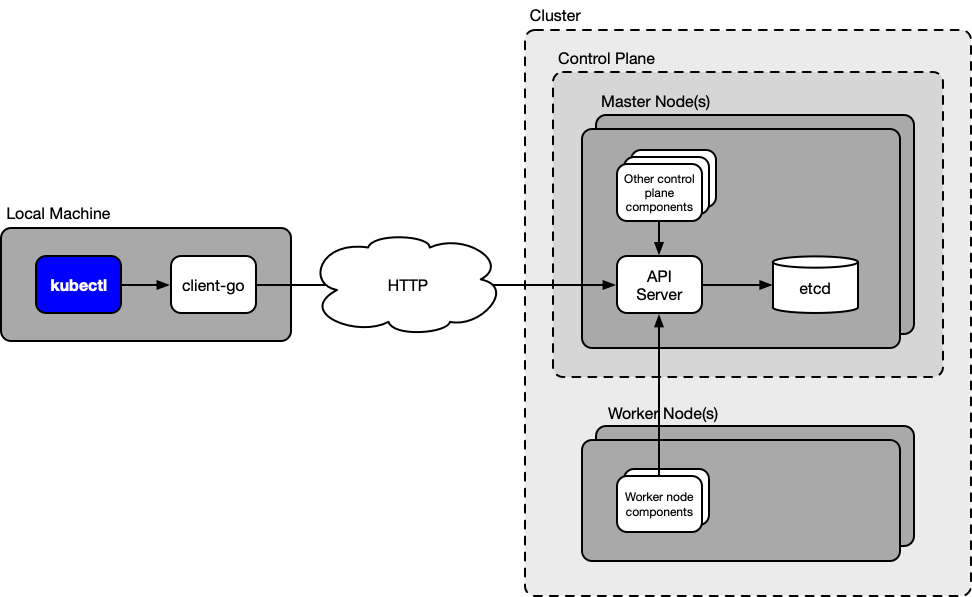
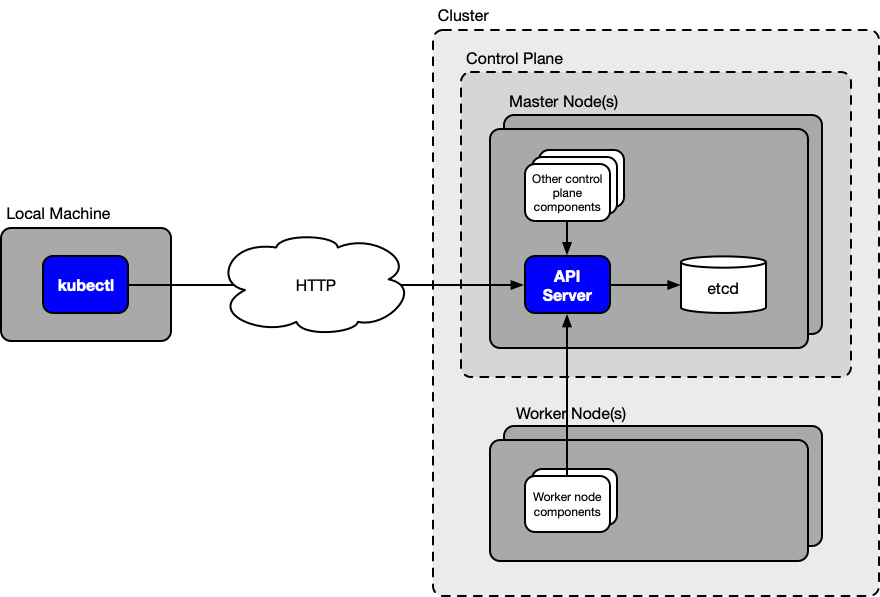
Revise "What is kubectl" section

diff --git a/_blog/kubernetes-cli-tricks/index.md b/_blog/kubernetes-cli-tricks/index.md
@@ -16,32 +16,37 @@ open_graph:
   image: /blog/kubernetes-cli-tricks/magic.jpg
 ---
 
-You probably know what you can do with `kubectl`, namely controlling and managing a Kubernetes cluster. But do you know what `kubectl` actually *is* from a technical point of view? The following diagram gives an overview:
+## Understanding what kubectl is
+
+You probably know what you can do with kubectl, namely controlling and managing a Kubernetes cluster. But do you know what kubectl actually is from a technical point of view? The following diagram gives an overview:
 
 ![](what-is-kubectl.png)
 
-To understand what `kubectl` is, you also need to have a rough idea how a Kubernetes cluster works. Kubernetes itself consists of various independent **components**. Some of them are control plane components and they usually run on one or more dedicated master nodes of the cluster. Other components run on each worker node of a cluster.
+To understand what kubectl is, you also need to have a rough idea how Kubernetes works.
 
-Each component has a very specific job. For example, the **[etcd](https://coreos.com/etcd/) storage** component stores all the resource specifications that have been defined for a cluster (e.g. deployments, services, etc.). The **scheduler** component assigns pending pods to worker nodes for execution. The **kubelet** component, which runs on each worker node, runs the container(s) of a pod that has been assigned to its node by the scheduler.
+Kubernetes itself consists of a set of independent **components** that run on different nodes of a cluster. A subset of these components are **control plane components** and they usually run on one or more dedicated nodes that only run control plane components and don't execute any workloads. These nodes are called master nodes. The remaining components are **worker nodes components**, and they run on those nodes of the cluster that execute the application workloads. These nodes are called worker nodes.
 
-However, there is one very central component: the **API server**. The API server is the switching point for all interactions between components within the cluster, as well as the main entry point for interactions from outside the cluster. The individual components in a cluster don't talk to each other directly, but they communicate via the API server. Similarly, an external user (such as you) interacts with a cluster through the API server.
+Each component has a very specific job. For example, the **[etcd](https://coreos.com/etcd/)** component (a control plane component) stores all the resource specifications that have been defined for the cluster, such as pods and services. The **scheduler** component (a control plane component) assigns pending pods to worker nodes for execution. The **kubelet** component (a worker node component) is responsible for running the container(s) of a pod that has been assigned to its node by the scheduler.
 
-The API server defines an HTTP REST API through which all these interactions happen. This is commonly known as the **Kubernetes API** and it is described [here](https://kubernetes.io/docs/reference/using-api/api-overview/) in the docs. Since it is a REST API, all Kubernetes operations are implemented as CRUD operations (create, read, update, delete) on Kubernetes **resource objects** (which are stored in the etcd component). The full specifications of these resource objects for the currently latest version of Kubernetes can be found [here](https://kubernetes.io/docs/reference/kubernetes-api/).
+However, there is one very important component that I didn't mention yet: the **API server**. The API server is the switching point for all interactions between components within the cluster, as well as the main entry point for interactions from outside the cluster. The individual components in a cluster don't talk to each other directly, but they only talk to the API server (in fact components don't even know about each others' existence). Similarly, an external user (such as you) interacts with a Kubernetes cluster by talking to the API server.
 
-This means that, as a cluster user, you control a Kubernetes cluster by making HTTP calls to the REST API of your cluster's API server. You could do this with a tool like `curl`. Or, since this is tedious and error-prone, you could use a tool that provides you a nice interface and carries out these HTTP API calls for you behind the scenes. And that's exactly what `kubectl` is.
+The API server defines an **HTTP REST API** through which all these interactions happen. This is commonly known as the [Kubernetes API](https://kubernetes.io/docs/reference/using-api/api-overview/). All Kubernetes operations are implemented as **CRUD** operations (create, read, update, delete) on Kubernetes **resources**. Everything, from a pod to a service to a deployment or namespace is a Kubernetes resource, and all Kubernetes operations are CRUD operations on these resources, carried out through the HTTP REST API of the API server. You can find the full list of these resources with all their fields for the latest version of Kubernetes (currently v1.13) [here](https://kubernetes.io/docs/reference/kubernetes-api/).
 
-`kubectl` is essentially a command-line tool that carries out HTTP calls to the API server on your behalf. It allows you to do everything that you could also do by directly calling the API (e.g. with `curl`), but in a more user-friendly way (plus it allows you to do some additional management tasks).
+And now you can see what **kubectl** is: kubectl is a command-line tool that carries out HTTP requests to the API server. If you run `kubectl get pods`, then kubectl issues an HTTP request that corresponds to a *read* operation on the *pod* resources to the API server
 
-Technically, `kubectl` is a Go program, and it uses a library called [client-go](https://github.com/kubernetes/client-go) to make the calls to the Kubernetes API. The client-go library is the official Kubernetes API client library for Go. There exist Kubernetes API client libraries for various other programming languages (see [here](https://kubernetes.io/docs/reference/using-api/client-libraries/)), and you are free to use these libraries in your own programs that need to access a Kubernetes cluster.
+So, if kubectl just makes HTTP requests to the API server, couldn't you also access this API directly? Sure. Nothing stops you from making raw HTTP requests to the API server with a tool like `curl`. If you know the relevant API endpoints and request formats, then you could fully control your cluster that way without ever using kubectl. However, this would be a lot of work and pretty error-prone. The whole point of kubectl is to make it easier for you to interact with the Kubernetes API server.
 
-The important point to remember from this section is that a Kubernetes cluster is controlled through an HTTP REST API provided by an API server, and `kubectl` is one of the means through which you can access this API.
+However, what's more common than accessing the API server directly is to use one of the Kubernetes [client libraries](https://kubernetes.io/docs/reference/using-api/client-libraries/) that exist for different programming languages. These are API client libraries that allow you to carry out requests to the API server programmatically. This allows you to write programs that communicate with the Kubernetes API server, just like kubectl.
 
-The remainder of this article presents a collection of "tricks" that help you make your usage of `kubectl` as efficient as possible.
+In fact, kubectl is nothing else than a program that uses a Kubernetes client library to communicate with the Kubernetes API server. In particular, kubectl is a Go program that uses the [client-go](https://github.com/kubernetes/client-go) library.
 
+The take-away message here is that, regarding cluster control, the crucial point is the HTTP REST API provided by the API server. Everything happens through this API. Kubectl is one of the means to access this API, but there are others, for example issuing raw HTTP requests (e.g. with `curl`) or using a Kubernetes client library. In the end, all these means are equivalent, that is, they all allow you to do the same things.
+
+Now that you have a good idea of what kubectl is, let's look at a series of tips and tricks to make your usage of kubectl more efficient.
 
 ## Shell Completion
 
-One of the most obvious, but often overlooked, tricks to make your `kubectl` usage more efficient is shell completion. This is a feature that `kubectl` provides for the **Bash** and **zsh** shells (see [here](https://kubernetes.io/docs/tasks/tools/install-kubectl/#enabling-shell-autocompletion)). It allows you to auto-complete `kubectl` sub-commands, options, and arguments, including hard-to-type things like pod or node names. This can save you really a lot of typing or copy-pasting!
+One of the most obvious, but often overlooked, tricks to make your kubectl usage more efficient is shell completion. This is a feature that kubectl provides for the **Bash** and **zsh** shells (see [here](https://kubernetes.io/docs/tasks/tools/install-kubectl/#enabling-shell-autocompletion)). It allows you to auto-complete kubectl sub-commands, options, and arguments, including hard-to-type things like pod or node names. This can save you really a lot of typing or copy-pasting!
 
 Here is a small demonstration of shell completion in action:
 
@@ -53,12 +58,12 @@ The setup procedure for shell completion depends on whether you use Bash or zsh 
 
 ### General Notes
 
-- The completion functionality for `kubectl` is provided by a **completion script**. This is a shell script that instructs the shell how completion should work for this command. `kubectl` outputs this script for the Bash and zsh shells with the command `kubectl completion bash` and `kubectl completion zsh`, respectively. You have to source this script for enabling completion.
-- For Bash, the `kubectl` completion script depends on a third-party project called [**bash-completion**](https://github.com/scop/bash-completion). You need to install this project on your system to make `kubectl` completion work for Bash.
+- The completion functionality for kubectl is provided by a **completion script**. This is a shell script that instructs the shell how completion should work for this command. kubectl outputs this script for the Bash and zsh shells with the command `kubectl completion bash` and `kubectl completion zsh`, respectively. You have to source this script for enabling completion.
+- For Bash, the kubectl completion script depends on a third-party project called [**bash-completion**](https://github.com/scop/bash-completion). You need to install this project on your system to make kubectl completion work for Bash.
 
 ### Bash on Linux
 
-As mentioned, for Bash you first have to install a project called [bash-completion](https://github.com/scop/bash-completion). This project provides Bash functions that are used by the `kubectl` completion script (that is, the output of `kubectl completion bash`).
+As mentioned, for Bash you first have to install a project called [bash-completion](https://github.com/scop/bash-completion). This project provides Bash functions that are used by the kubectl completion script (that is, the output of `kubectl completion bash`).
 
 You can install bash-completion as follows:
 
@@ -72,19 +77,19 @@ This creates the file `/etc/bash_completion`, which you have to source in your `
 source /etc/bash_completion
 ~~~
 
-Now, you just need to make sure the `kubectl` completion script is sourced in every shell session. You can do this by adding the following command to your `~/.bashrc` file (after the above command):
+Now, you just need to make sure the kubectl completion script is sourced in every shell session. You can do this by adding the following command to your `~/.bashrc` file (after the above command):
 
 ~~~bash
 source <(kubectl completion bash)
 ~~~
 
-And that's it! After starting a new shell (or sourcing `~/.bashrc`), `kubectl` completion should work.
+And that's it! After starting a new shell (or sourcing `~/.bashrc`), kubectl completion should work.
 
 ### Bash on macOS
 
 On macOS, the story is (unfortunately) a bit more complicated. The reason for this is that Apple includes a completely outdated version of Bash in macOS. In particular, this is version 3.2 which dates from 2007 (you can test it on your Mac by running `bash --version`). Apple does this for licensing reasons: Bash 3.2 is the last version that uses the GPLv2 license, whereas later versions use GPLv3, and Apple is unwilling to accept GPLv3.
 
-The problem is that the `kubectl` completion script (that you generate with `kubectl completion bash`) does not work properly with Bash 3.2. It requires at least Bash 4.1.
+The problem is that the kubectl completion script (that you generate with `kubectl completion bash`) does not work properly with Bash 3.2. It requires at least Bash 4.1.
 
 The only solution to this problem is to install a newer version of Bash on your Mac (the currently latest version is 5.0). This is actually not difficult and I wrote an entire article about it [here](https://itnext.io/upgrading-bash-on-macos-7138bd1066ba). I recommend you to follow the steps in this article before proceeding.
 
@@ -106,17 +111,17 @@ The above command will prompt you in the "Caveats" section to add the following 
 
 You have to do this in order to enable the bash-completion functionality.
 
-After that, you just need to source the `kubectl` completion script, which you can do by adding the following command to your `~/.bashrc` file (after the above command):
+After that, you just need to source the kubectl completion script, which you can do by adding the following command to your `~/.bashrc` file (after the above command):
 
 ~~~bash
 source <(kubectl completion bash)
 ~~~
 
-And that's it! After starting a new shell, `kubectl` completion should be working.
+And that's it! After starting a new shell, kubectl completion should be working.
 
 ### zsh
 
-With zsh, the setup procedure is the same for macOS and Linux, and furthermore, it doesn't depend on a third-party project like bash-completion. So, all you have to do is to source the `kubectl` completion script.
+With zsh, the setup procedure is the same for macOS and Linux, and furthermore, it doesn't depend on a third-party project like bash-completion. So, all you have to do is to source the kubectl completion script.
 
 You can do this by adding the following to your `~/.zshrc` file:
 
@@ -135,7 +140,7 @@ compinit
 
 This tip will prove useful for many of the subsequent tips in this post.
 
-As mentioned, you manage a Kubernetes cluster by applying CRUD operations on Kubernetes resource objects (for example, through `kubectl`). Each resource object has a specific hierarchical structure, which is described in the Kubernetes [API reference](https://kubernetes.io/docs/reference/kubernetes-api/). Often you need to know the structure of, say, a *pod*, to know the fields and sub-fields it has. However, hitting the web documentation each time to find this out is a tedious and time-consuming process.
+As mentioned, you manage a Kubernetes cluster by applying CRUD operations on Kubernetes resource objects (for example, through kubectl). Each resource object has a specific hierarchical structure, which is described in the Kubernetes [API reference](https://kubernetes.io/docs/reference/kubernetes-api/). Often you need to know the structure of, say, a *pod*, to know the fields and sub-fields it has. However, hitting the web documentation each time to find this out is a tedious and time-consuming process.
 
 This is where `kubectl explain` comes in. This command contains the same information as the API reference web documentation, but it lets you access it conveniently from your command-line.
 
@@ -221,7 +226,7 @@ Again, you can find out the nature of each field in a resource object (whether i
 
 ## Contexts and Namespaces
 
-`kubectl` depends on a type of configuration file called **kubeconfig file** (described [here](https://kubernetes.io/docs/tasks/access-application-cluster/configure-access-multiple-clusters/) and [here](https://kubernetes.io/docs/concepts/configuration/organize-cluster-access-kubeconfig/) in the docs). A kubeconfig file contains all the information that `kubectl` needs to connect and authenticate to a Kubernetes cluster (more precisely, to the API server of a Kubernetes cluster).
+kubectl depends on a type of configuration file called **kubeconfig file** (described [here](https://kubernetes.io/docs/tasks/access-application-cluster/configure-access-multiple-clusters/) and [here](https://kubernetes.io/docs/concepts/configuration/organize-cluster-access-kubeconfig/) in the docs). A kubeconfig file contains all the information that kubectl needs to connect and authenticate to a Kubernetes cluster (more precisely, to the API server of a Kubernetes cluster).
 
 <!--If you use a managed Kubernetes service (such as [EKS](https://aws.amazon.com/eks/) from AWS or [GKE](https://cloud.google.com/kubernetes-engine/) from GCP), the kubeconfig file can be created or updated automatically with the information of a new cluster by a dedicated command (`aws eks update-kubeconfig` for EKS and `gcloud container clusters get-credentials` for GKE, respectively). -->
 
@@ -241,23 +246,23 @@ A kubeconfig file contains the following pieces of information:
 - **Current context**
     - The name of the context that is currently active
 
-Our main interest here is in the contexts. Each context consists of a cluster, a user, and a namespace. When `kubectl` is invoked, it always uses one of the contexts defined in the kubeconfig file. Concretely, if `kubectl` uses, say, the context *MyContext*, this means the following:
+Our main interest here is in the contexts. Each context consists of a cluster, a user, and a namespace. When kubectl is invoked, it always uses one of the contexts defined in the kubeconfig file. Concretely, if kubectl uses, say, the context *MyContext*, this means the following:
 
-- `kubectl` connects to the API server URL defined in the *cluster* of *MyContext*
-- `kubectl` authenticates to the API server using the credentials in the *user* of *MyContext*
-- `kubectl` performs any Kubernetes operation in the namespace defined in the *namespace* of *MyContext*
+- kubectl connects to the API server URL defined in the *cluster* of *MyContext*
+- kubectl authenticates to the API server using the credentials in the *user* of *MyContext*
+- kubectl performs any Kubernetes operation in the namespace defined in the *namespace* of *MyContext*
 
-The context that `kubectl` uses is the one set in the **current context** field of the kubeconfig file. The value of this field can be easily changed. This allows you to apply the next invocation of `kubectl` to another cluster, or to the same cluster but authenticate with a different user, or to the same cluster with the same user but using a different namespace, and so on, and so on. By defining appropriate contexts, you can cover any use case of how to connect to which cluster.
+The context that kubectl uses is the one set in the **current context** field of the kubeconfig file. The value of this field can be easily changed. This allows you to apply the next invocation of kubectl to another cluster, or to the same cluster but authenticate with a different user, or to the same cluster with the same user but using a different namespace, and so on, and so on. By defining appropriate contexts, you can cover any use case of how to connect to which cluster.
 
 ### Managing Contexts
 
-So, when you're working with `kubectl`, you might have a couple of questions:
+So, when you're working with kubectl, you might have a couple of questions:
 
 - What is the current context?
 - Which contexts exist?
 - How can I change the current context?
 
-Fortunately, `kubectl` provides commands that address these questions:
+Fortunately, kubectl provides commands that address these questions:
 
 ~~~bash
 # What is the current context?
@@ -270,9 +275,9 @@ kubectl config use-context <name>
 
 Note that the command to change the current context physically changes the *current context* field in the kubeconfig file.
 
-These commands work well, but they are a bit bulky, aren't they? Especially, because you probably have to use them frequently to quickly orientate yourself in your `kubectl` environment. Furthermore, managed Kubernetes services like [EKS](https://aws.amazon.com/eks/) from AWS or [GKE](https://cloud.google.com/kubernetes-engine/) from GCP generate rather long context names, and copy-pasting them into the `kubectl config use-context` command is tedious and time-consuming.
+These commands work well, but they are a bit bulky, aren't they? Especially, because you probably have to use them frequently to quickly orientate yourself in your kubectl environment. Furthermore, managed Kubernetes services like [EKS](https://aws.amazon.com/eks/) from AWS or [GKE](https://cloud.google.com/kubernetes-engine/) from GCP generate rather long context names, and copy-pasting them into the `kubectl config use-context` command is tedious and time-consuming.
 
-So, let's define some shell aliases that allow performing these tasks with a minimum of typing. In particular, we will define the following aliases (they all start with `k` to indicate that they belong to `kubectl`):
+So, let's define some shell aliases that allow performing these tasks with a minimum of typing. In particular, we will define the following aliases (they all start with `k` to indicate that they belong to kubectl):
 
 - `ksc` (**s**show **c**ontext): show the current context
 - `klc` (**l**ist **c**ontexts): list all contexts, marking the current one
@@ -485,11 +490,11 @@ However, there's one notable difference. The scripts for `kubectx` and `kubens` 
 Shell aliases are generally used to abbreviate long commands (including sub-commands, options, arguments, etc.) to short "alias" strings. Then, all you have to do is to type the alias string, and the shell expands the alias and executes the corresponding command, just as if you typed the long command yourself. Defining aliases pays off particularly for frequently used commands.
 
 
-With `kubectl` you naturally use certain commands very frequently (for example, `kubectl get pods`). So, it would be nice to define aliases for these commands, right? You would just need to figure out which commands you use most frequently, choose an alias name for each one, and then define the aliases in your `~/.bashrc` or `~/.zshrc` file (for example, as `alias kgpo='kubectl get pods'`).
+With kubectl you naturally use certain commands very frequently (for example, `kubectl get pods`). So, it would be nice to define aliases for these commands, right? You would just need to figure out which commands you use most frequently, choose an alias name for each one, and then define the aliases in your `~/.bashrc` or `~/.zshrc` file (for example, as `alias kgpo='kubectl get pods'`).
 
 > In the following, the notation `~/*rc` is used to refer to either `~/.bashrc` or `~/.zshrc`.
 
-But there's a better solution. There's a project called [*kubectl-aliases*](https://github.com/ahmetb/kubectl-aliases) which defines **800 aliases** for frequently used `kubectl` commands. You can just include these alias definitions in your `~/*rc` file and start using them immediately.
+But there's a better solution. There's a project called [*kubectl-aliases*](https://github.com/ahmetb/kubectl-aliases) which defines **800 aliases** for frequently used kubectl commands. You can just include these alias definitions in your `~/*rc` file and start using them immediately.
 
 > All aliases in *kubectl-aliases* work with both, Bash and Zsh.
 
@@ -505,16 +510,16 @@ You might wonder how you could possibly remember 800 aliases? Well, actually you
 
 All aliases start with `k`, and then you can append components from left to right, according to the above figure (the `sys` component is optional). Here are some example aliases and the commands that they stand for:
 
-- `k` &#10230; `kubectl`
+- `k` &#10230; kubectl
 - `kg` &#10230; `kubectl get`
 - `kgpo` &#10230; `kubectl get pods`
 - `kgpooyaml` &#10230; `kubectl get pods -o yaml`
 
 And so on, for all the possible combinations. So, if you want to list all pods, you can just type `kgpo`. If you want to get a specific pod, you can type `kgpo <pod>` (where `<pod>` is the name of the pod you want to retrieve). If you want to get the YAML specification of a specific pod, you can type `kgpooyaml <pod>`.
 
-Nothing prevents you from using these aliases only as parts of your commands. For example, you can use `k` at any place where you would type `kubectl` otherwise. This means, you can type `k api-resources` (since there's no alias for this command as a whole). Or you can type `kg roles` (since there are no aliases defined for *role* resources). Just look at the command an alias stands for, and you can append further arguments to the alias at will. This allows you to minimise typing even fore use cases that are not explicitly covered by *kubectl-aliases*.
+Nothing prevents you from using these aliases only as parts of your commands. For example, you can use `k` at any place where you would type kubectl otherwise. This means, you can type `k api-resources` (since there's no alias for this command as a whole). Or you can type `kg roles` (since there are no aliases defined for *role* resources). Just look at the command an alias stands for, and you can append further arguments to the alias at will. This allows you to minimise typing even fore use cases that are not explicitly covered by *kubectl-aliases*.
 
-If you use Zsh, it gets even better. The `kubectl` command completion works with the aliases too. That means, you can type, for example, `kgpo [tab][tab]` and Zsh will complete the available pod names for you. Like this, you can combine two typing reduction mechanisms (aliases and completion) to an "ultra typing reduction" workflow.
+If you use Zsh, it gets even better. The kubectl command completion works with the aliases too. That means, you can type, for example, `kgpo [tab][tab]` and Zsh will complete the available pod names for you. Like this, you can combine two typing reduction mechanisms (aliases and completion) to an "ultra typing reduction" workflow.
 
 If you use Bash, the bad news is that completion for aliases doesn't work by default. The good news is that you can make it working quite easily, which is explained in the following. This will allow you to have your "ultra typing reduction" workflow" also on Bash.
 
@@ -588,7 +593,7 @@ In case you wonder how the `_complete_alias` function can enable appropriate com
 
 ## Extend kubectl with plugins
 
-Plugins are a `kubectl` feature that only few people know about. They have existed for a while, but the plugin system has been completely redesigned in **version 1.12** (released in September 2018) of `kubectl`. With the new plugin system, you can add custom sub-commands to `kubectl` as shown below:
+Plugins are a kubectl feature that only few people know about. They have existed for a while, but the plugin system has been completely redesigned in **version 1.12** (released in September 2018) of kubectl. With the new plugin system, you can add custom sub-commands to kubectl as shown below:
 
 ![](screencast-plugin-hello-world.gif)
 
@@ -596,7 +601,7 @@ Plugins are described [here](https://kubernetes.io/docs/tasks/extend-kubectl/kub
 
 It is very easy to install kubectl plugins, and it can be explained in a single sentence (there are some further minor details to this, which are explained later): 
 
-*Any executable named `kubectl-<name>` (where `<name>` is any string) in any directory of your `PATH` is detected by `kubectl` as a plugin and made available as `kubectl <name>`.*
+*Any executable named `kubectl-<name>` (where `<name>` is any string) in any directory of your `PATH` is detected by kubectl as a plugin and made available as `kubectl <name>`.*
 
 The executable can be of any type: a shell script, a compiled C program, a Python script, and so on, there are no requirements. There is no interface against which you have to program, no plugin manifest to create, and no registration process. The only requirements are that the name of the executable starts with `kubectl-` and that it's located somewhere in your `PATH`.
 
@@ -611,9 +616,9 @@ For example, to create a "Hello World" plugin as shown above, all you have to do
 
 That's all! Now you can invoke your plugin with `kubectl hello`.
 
-What technically happens when you run `kubectl hello` is that `kubectl` executes the corresponding `kubectl-hello` executable. The executable can do anything it wants, it doesn't even have to be related to Kubernetes (as the above example shows).
+What technically happens when you run `kubectl hello` is that kubectl executes the corresponding `kubectl-hello` executable. The executable can do anything it wants, it doesn't even have to be related to Kubernetes (as the above example shows).
 
-Any arguments that you pass to a plugin are passed as-is to the executable. For example, if you run `kubectl hello -o opt` then the `-o` and `opt` arguments are passed to the `kubectl-hello` executable as the first and second arguments, as if it was invoked with `kubectl-hello -o opt`. Furthermore, the plugin executable runs in the same environment as `kubectl`. That means, any environment variables that are available to `kubectl`, are also available to the plugin executable.
+Any arguments that you pass to a plugin are passed as-is to the executable. For example, if you run `kubectl hello -o opt` then the `-o` and `opt` arguments are passed to the `kubectl-hello` executable as the first and second arguments, as if it was invoked with `kubectl-hello -o opt`. Furthermore, the plugin executable runs in the same environment as kubectl. That means, any environment variables that are available to kubectl, are also available to the plugin executable.
 
 There are the following further details about kubectl plugins:
 
@@ -628,19 +633,19 @@ Kubectl provides a single native command that is related to plugins:
 kubectl plugin list
 ~~~
 
-This command lists all the plugins that `kubectl` detects in the `PATH` of your system. This gives you an overview of which plugins are available for you to use.
+This command lists all the plugins that kubectl detects in the `PATH` of your system. This gives you an overview of which plugins are available for you to use.
 
-The above command also includes warnings if a plugin has the same name as a native `kubectl` command (in which case the plugin will be ignored) or if there are multiple plugins with the same name (in which case, the plugin that appears first in the `PATH` will be used.
+The above command also includes warnings if a plugin has the same name as a native kubectl command (in which case the plugin will be ignored) or if there are multiple plugins with the same name (in which case, the plugin that appears first in the `PATH` will be used.
 
 ### Why plugins?
 
-So, if plugins are just executables that are invoked by `kubectl`, why even bother with creating a plugin and not just executing the executable yourself? Instead of creating an executable named `kubectl-hello` and run it as `kubectl hello`, you could just create an executable named `hello` and execute it directly. There would be effectively no difference.
+So, if plugins are just executables that are invoked by kubectl, why even bother with creating a plugin and not just executing the executable yourself? Instead of creating an executable named `kubectl-hello` and run it as `kubectl hello`, you could just create an executable named `hello` and execute it directly. There would be effectively no difference.
 
-The main argument to use the plugin system is to avoid "command overload" (something like app overload on smartphones). Kubectl lends itself to create tools around it, and without plugins, each of these tools is a separate command. This clutters your system with many, often cryptically named, commands. If you design these tools as plugins, you have them all under the `kubectl` "namespace", which makes it easier to remember and give meaningful names to them. In addition, you can get an overview of all the plugins you are using at any time with the `kubectl plugins list` command.
+The main argument to use the plugin system is to avoid "command overload" (something like app overload on smartphones). Kubectl lends itself to create tools around it, and without plugins, each of these tools is a separate command. This clutters your system with many, often cryptically named, commands. If you design these tools as plugins, you have them all under the kubectl "namespace", which makes it easier to remember and give meaningful names to them. In addition, you can get an overview of all the plugins you are using at any time with the `kubectl plugins list` command.
 
 Furthermore, if you want to distribute a tool to other users, distributing it as a plugin reduces the risk of name clashes with existing tools on the users' system.
 
-At the present time, the plugin mechanism does unfortunately not yet support **completion**. That means, you always have to fully type the plugin names, and can't complete them like native `kubectl` sub-commands (e.g. `kubectl h[tab]` does not complete to `kubectl hello`). However, there is an open [feature request](https://github.com/kubernetes/kubectl/issues/585) for this on GitHub, so hopefully we will see this feature some time in the future.
+At the present time, the plugin mechanism does unfortunately not yet support **completion**. That means, you always have to fully type the plugin names, and can't complete them like native kubectl sub-commands (e.g. `kubectl h[tab]` does not complete to `kubectl hello`). However, there is an open [feature request](https://github.com/kubernetes/kubectl/issues/585) for this on GitHub, so hopefully we will see this feature some time in the future.
 
 ### Creating and installing plugins
 
